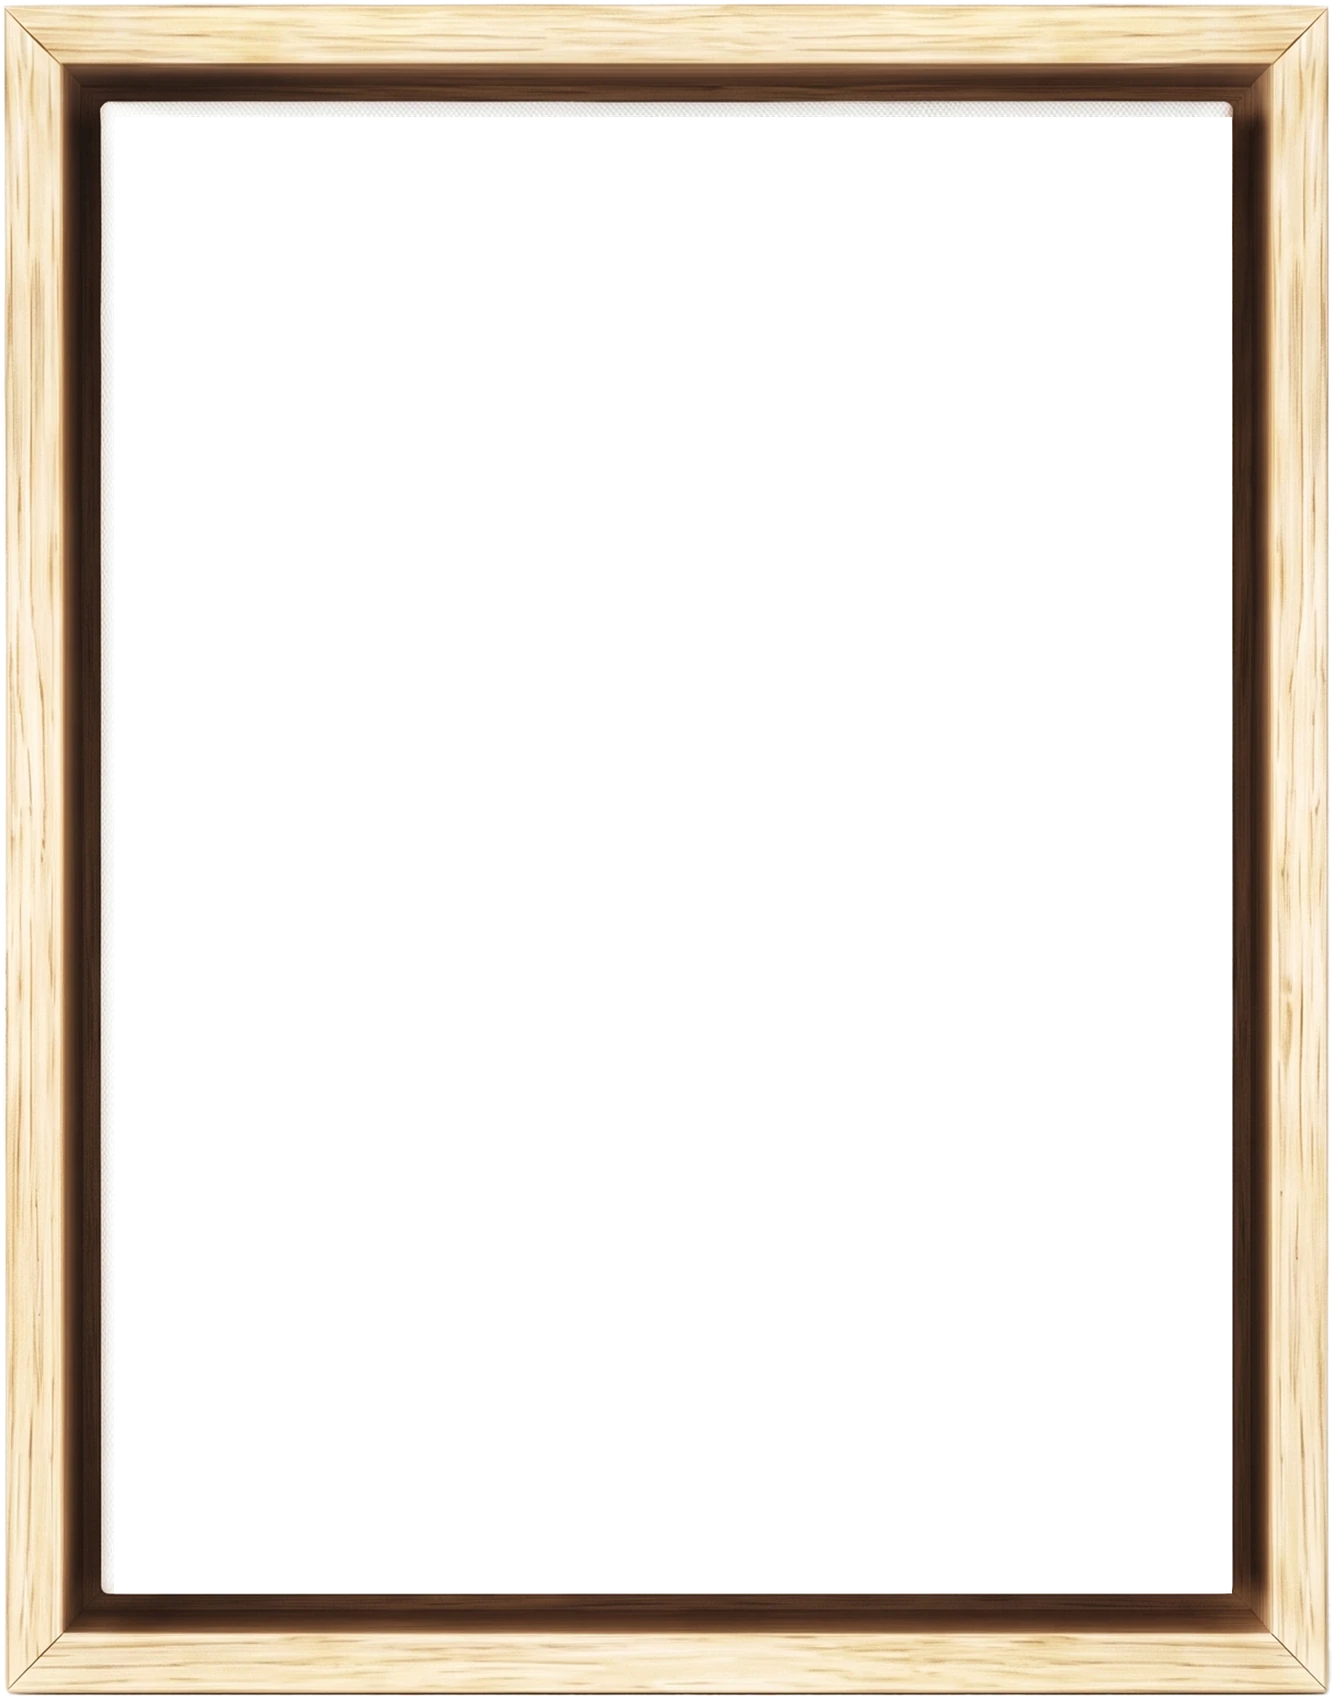
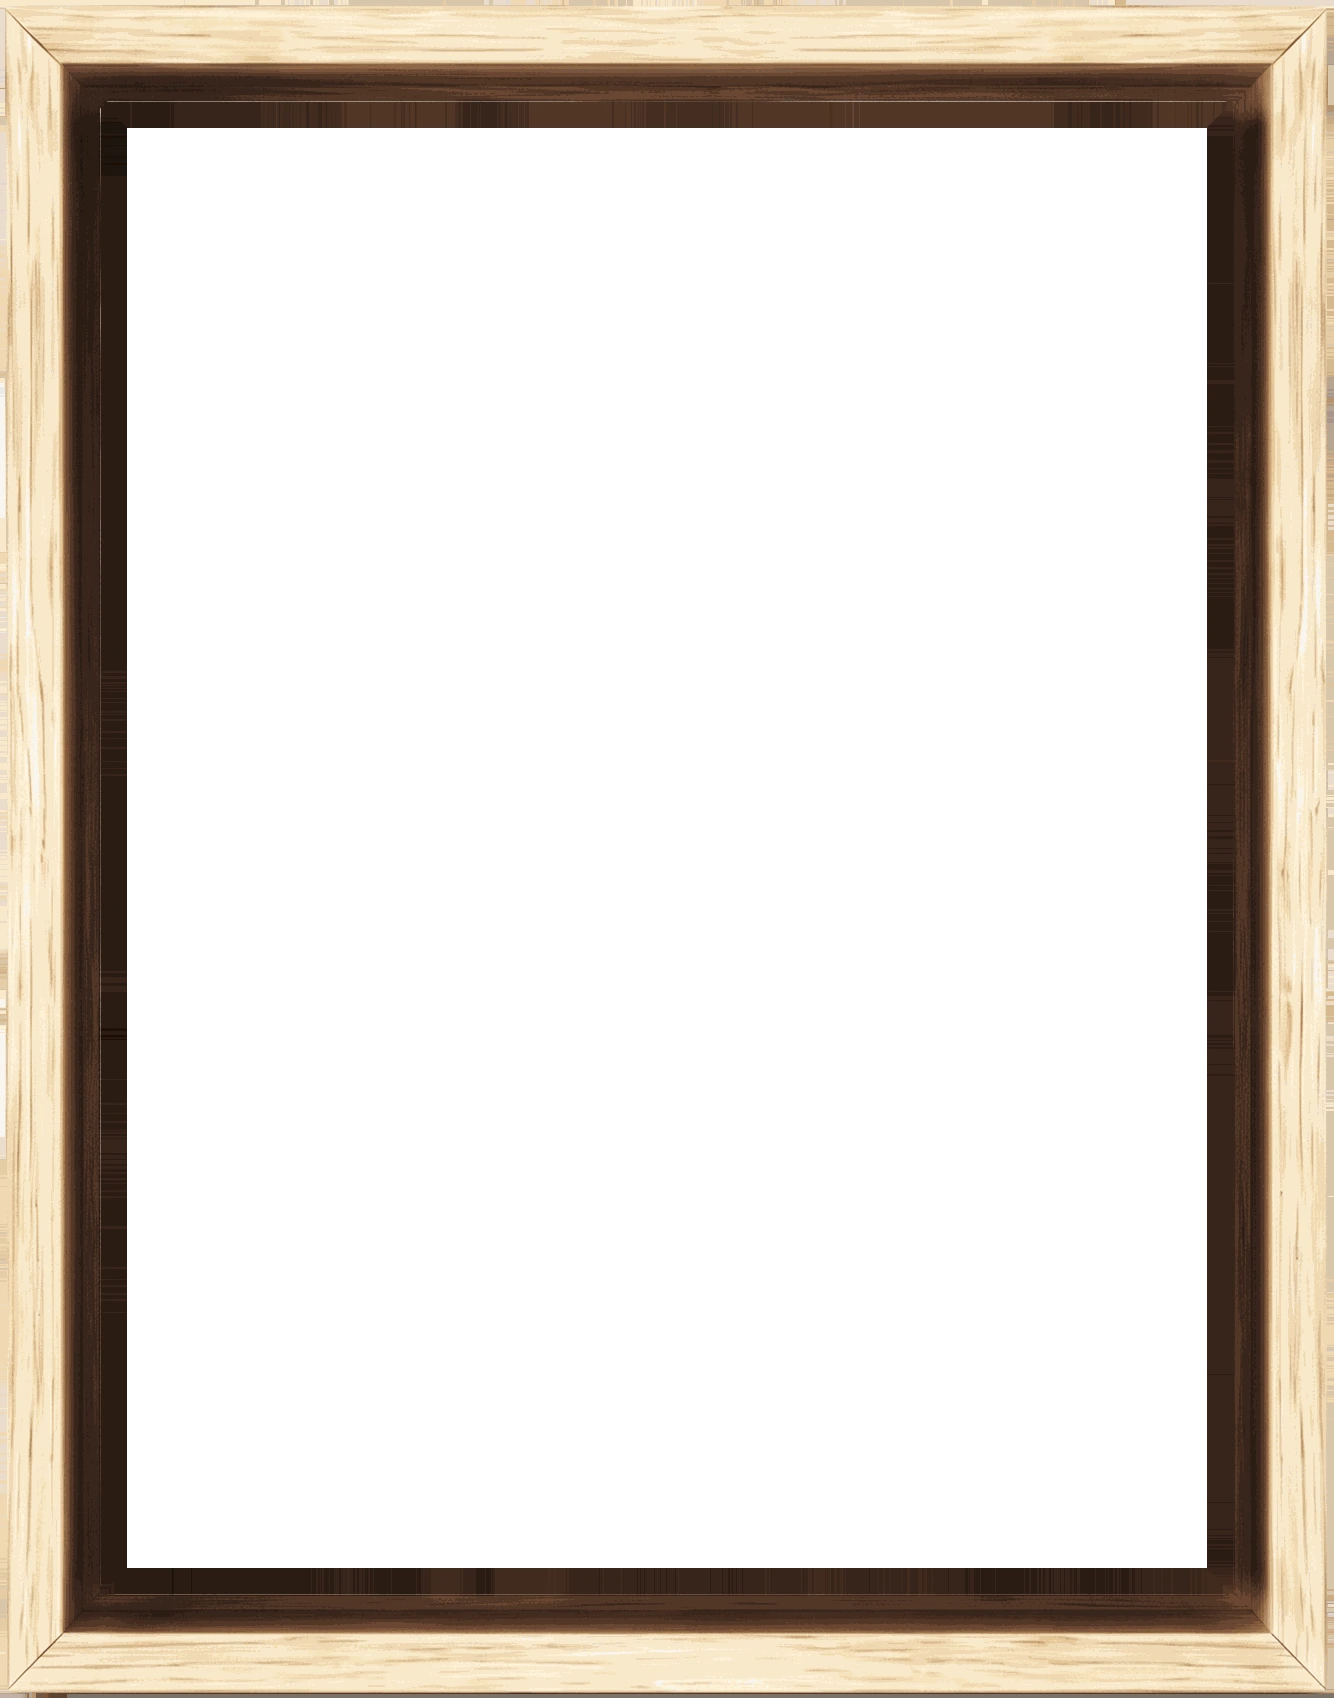
Close the pale gap in the frame's shadow recess
The frame is painted as a CSS border-image, so every pixel inside the
slice lines is drawn. The cut file carried two things that did not
belong there: a transparent fringe a few pixels wide all the way round
the outside, and a band of the white canvas face — up to sixteen pixels
of it along the top and the left — sitting between the dark recess and
the cleared middle. That white band is the gap; it reads as empty
space exactly where the shadow should be, and how plainly it shows
depends on how the browser scales the file.

There was nothing to spare at the inner boundary either: the slice line
fell within a pixel or two of the cleared middle, so a renderer that
landed on a half pixel had transparency to sample.

tools/fix-frame-edges.py finds the frame's opening, carries the wood
out to the file edge and the recess in over the white band and past the
slice lines, leaving a solid margin on both sides. The cut-out itself
stays clear, so the canvas still shows through.

The rule is steadier now too: percentage slices, which resolve against
the file's own size on a dense screen; a plain url() before the
image-set(), since type() inside image-set() is recent; a transparent
border colour, so a failed image can never paint a dark band; and no
corner radius, which engines disagree about under a border-image.

Claude-Session: https://claude.ai/code/session_01X6Pv3nrHhTjqWKLhQX1xC6

diff --git a/assets/css/styles.css b/assets/css/styles.css
@@ -308,19 +308,27 @@ p{margin:0}
      slice deliberately reaches past the wood and takes the shadow gap with
      it, otherwise the canvas would sit flush against the timber, which this
      frame never does. Measured off the photograph:
-     228px left, 234 top, 204 right, 209 bottom, halved with the file. */
+     228px left, 234 top, 204 right, 209 bottom, halved with the file.
+
+     The slices are written as percentages of the file rather than as pixels,
+     so a browser that scales the image for a dense screen still cuts it in
+     the same places, and the dark recess underneath catches any half pixel
+     a renderer leaves at the seam. */
   --fw: 8.55cqw;
   padding: 0;
-  background: none;
+  background: #2A1C13;
+  border-radius: 0;
   border-style: solid;
+  border-color: transparent;
   border-left-width:   var(--fw);
   border-top-width:    calc(var(--fw) * 1.0263);
   border-right-width:  calc(var(--fw) * 0.8947);
   border-bottom-width: calc(var(--fw) * 0.9167);
+  border-image-source: url('../img/frame-oak.png');
   border-image-source: image-set(
       url('../img/frame-oak.webp') type('image/webp'),
       url('../img/frame-oak.png')  type('image/png'));
-  border-image-slice: 117 102 104 114;
+  border-image-slice: 6.890% 7.646% 6.125% 8.546%;
   border-image-repeat: stretch;
   filter: drop-shadow(0 16px 26px rgba(29,30,26,.15));
 }

diff --git a/tools/fix-frame-edges.py b/tools/fix-frame-edges.py
@@ -1,0 +1,119 @@
+#!/usr/bin/env python3
+"""Repair the edges of the floater-frame cut-out.
+
+The frame is painted as a CSS border-image, so every pixel inside the slice
+lines ends up on screen. Two things in the cut file did not belong there:
+
+  * a four-to-seven pixel transparent fringe all the way round the outside,
+    left behind by the antialiased crop;
+  * a band of the white canvas face, up to sixteen pixels of it along the
+    top and the left, sitting between the dark recess and the cleared
+    middle — which is what renders as a pale gap where the shadow should be.
+
+There was also nothing to spare at the inner boundary: the slice line fell
+within a pixel or two of the cleared middle, so a renderer that landed on a
+half pixel had transparency to sample and left a seam.
+
+So: carry the wood outward to the very edge of the file, and carry the
+recess inward over the white band and on past the slice lines, leaving a
+solid margin the renderer can round into either way. The cut-out itself —
+everything more than MARGIN inside the opening — stays clear, because that
+is where the canvas shows through.
+
+Run from the project root. Safe to run twice.
+"""
+import numpy as np
+from PIL import Image
+
+SRC    = 'assets/img/frame-oak.png'
+DST    = 'assets/img/frame-oak.webp'
+BRIGHT = 150    # above this luminance a pixel is canvas face, not recess
+MARGIN = 26     # how far past the opening the recess is carried
+
+img = Image.open(SRC).convert('RGBA')
+a = np.array(img).astype(np.int16)
+h, w, _ = a.shape
+lum = (0.299 * a[:, :, 0] + 0.587 * a[:, :, 1] + 0.114 * a[:, :, 2])
+
+# ── the outer fringe: carry the outermost wood pixel to the file edge ──
+for y in range(h):
+    solid = np.nonzero(a[y, :, 3] >= 250)[0]
+    if len(solid):
+        a[y, :solid[0], :3] = a[y, solid[0], :3]
+        a[y, :solid[0],  3] = 255
+        a[y, solid[-1] + 1:, :3] = a[y, solid[-1], :3]
+        a[y, solid[-1] + 1:,  3] = 255
+for x in range(w):
+    solid = np.nonzero(a[:, x, 3] >= 250)[0]
+    if len(solid):
+        a[:solid[0], x, :3] = a[solid[0], x, :3]
+        a[:solid[0], x,  3] = 255
+        a[solid[-1] + 1:, x, :3] = a[solid[-1], x, :3]
+        a[solid[-1] + 1:, x,  3] = 255
+lum = (0.299 * a[:, :, 0] + 0.587 * a[:, :, 1] + 0.114 * a[:, :, 2])
+clear = a[:, :, 3] < 250   # now only the cut-out in the middle
+
+# ── the opening: the cleared middle, grown over the white canvas fringe ──
+cy, cx = h // 2, w // 2
+x0 = cx
+while x0 > 1 and (clear[cy, x0 - 1] or lum[cy, x0 - 1] > BRIGHT): x0 -= 1
+x1 = cx
+while x1 < w - 2 and (clear[cy, x1 + 1] or lum[cy, x1 + 1] > BRIGHT): x1 += 1
+y0 = cy
+while y0 > 1 and (clear[y0 - 1, cx] or lum[y0 - 1, cx] > BRIGHT): y0 -= 1
+y1 = cy
+while y1 < h - 2 and (clear[y1 + 1, cx] or lum[y1 + 1, cx] > BRIGHT): y1 += 1
+print('opening x %d..%d  y %d..%d' % (x0, x1, y0, y1))
+
+# ── carry the recess inward, over the white band and past the slice ──
+# Each line takes the colour of the recess pixel just outside the opening,
+# so the shadow keeps the grain and the falloff of the photograph.
+def darkest(block, axis):
+    """The deepest pixel of the recess within a few of the opening's edge.
+
+    The boundary between shadow and canvas wanders by a pixel or two along
+    the length of the frame, so reading a single line would pick up canvas
+    here and there and smear it back across the shadow."""
+    l = 0.299 * block[:, :, 0] + 0.587 * block[:, :, 1] + 0.114 * block[:, :, 2]
+    i = l.argmin(axis=axis)
+    j = np.arange(block.shape[1 - axis])
+    return block[i, j] if axis == 0 else block[j, i]
+
+PROBE = 8
+left   = darkest(a[:, x0 - PROBE:x0, :3], 1)
+right  = darkest(a[:, x1 + 1:x1 + 1 + PROBE, :3], 1)
+top    = darkest(a[y0 - PROBE:y0, :, :3], 0)
+bottom = darkest(a[y1 + 1:y1 + 1 + PROBE, :, :3], 0)
+
+for y in range(y0, y1 + 1):
+    dt, db = y - y0, y1 - y
+    for x in range(x0, x1 + 1):
+        dl, dr = x - x0, x1 - x
+        d = min(dl, dr, dt, db)
+        if d >= MARGIN and clear[y, x]:
+            a[y, x, 3] = 0          # the cut-out: the canvas shows through
+            continue
+        if d == dl:   a[y, x, :3] = left[y]
+        elif d == dr: a[y, x, :3] = right[y]
+        elif d == dt: a[y, x, :3] = top[x]
+        else:         a[y, x, :3] = bottom[x]
+        a[y, x, 3] = 255
+
+out = Image.fromarray(a.astype(np.uint8), 'RGBA')
+out.save(SRC, optimize=True)
+out.save(DST, format='WEBP', quality=92, method=6)
+
+# ── check: nothing pale may survive inside a slice line ──
+chk = np.array(out).astype(np.int16)
+cl = (0.299 * chk[:, :, 0] + 0.587 * chk[:, :, 1] + 0.114 * chk[:, :, 2])
+# Only the part of each border band that falls inside the opening matters:
+# the wood outside it is meant to be light.
+bands = {'top':    (slice(y0, 117),      slice(x0, x1 + 1)),
+         'bottom': (slice(h - 104, y1 + 1), slice(x0, x1 + 1)),
+         'left':   (slice(y0, y1 + 1),   slice(x0, 114)),
+         'right':  (slice(y0, y1 + 1),   slice(w - 102, x1 + 1))}
+for name, (ys, xs) in bands.items():
+    band = cl[ys, xs]
+    print('%-7s %d pixels, %d of them pale, brightest %d'
+          % (name, band.size, int((band > BRIGHT).sum()), int(band.max()) if band.size else -1))
+print('written', SRC, DST, out.size)
